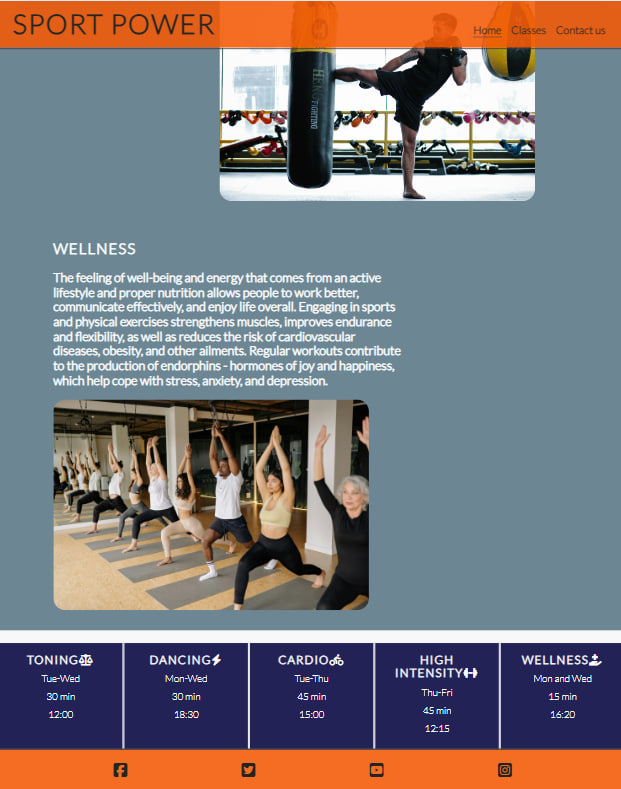
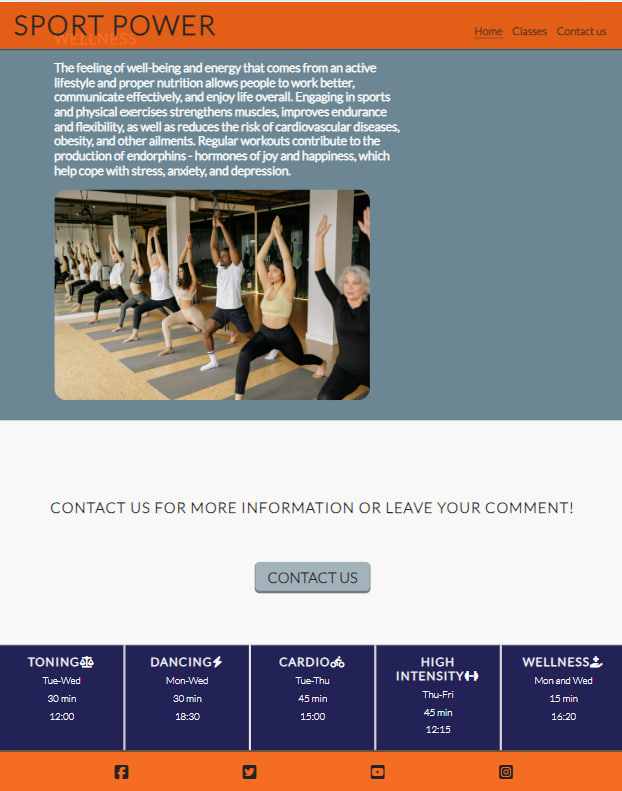
Add hover colors

diff --git a/response.html b/response.html
@@ -3,16 +3,12 @@
 <head>
     <meta charset="UTF-8">
     <meta name="viewport" content="width=device-width, initial-scale=1.0">
-    <!-- Meta tags for search engines -->
-    <meta name="description"
-    content="Sport power. Gym with additional activities for different purposes and tasks. Cork City Gate">
-    <meta name="keywords" content="gym, strength, workouts, health, sport, exercise">
     <!-- Title -->
     <title>Sport power</title>
      <!-- Stylesheet -->
      <link rel="stylesheet" href="assets/css/style.css">
 </head>
-<body>
+<body class="contact__page">
     <!-- Header -->
     <header>
         <a href="index.html">
@@ -28,57 +24,21 @@
             </ul>
         </nav>
     </header>
+    
+
     <!-- Main content -->
-    <main>
-         <div id="hero" aria-label="picture with a gym and visitors">
-            <div id="content">
-                <h1>Gym sport strength</h1>
-                <p>A new PREMIUM club in one of the most dynamic places in the capital - Cork. The fitness club offers visitors 
-                    accustomed to the business pace of life the most modern trends that have received recognition throughout the world.</p>
-            </div>
-         </div> 
-        <section id="membership-block">
-            <h2>What is included in the membership?</h2>
-            <div id="benefits">
-                <ul>
-                    <li>4-lane swimming pool</li>
-                    <li>gym, with equipment</li>
-                    <li>group classes</li>
-                    <li>jacuzzi</li>
-                </ul>
-                <ul>
-                    <li>water cooler</li>
-                    <li>towel</li>
-                    <li>safe for storing things</li>
-                    <li>sauna</li>
-                </ul>
-            </div>
+    <main class="main_contact_form">
+        <!-- Form section -->
+        <section class="contact_form">
+            <h1>Thank you</h1>
+            <p>We will contacts you in three days</p>
+
         </section>
-        <!-- Blocks with location -->
-     <section id="two_blocks">
-        <div id="first-rounded-block">
-            <div id="details">
-            <h2>Club Details</h2>
-            <br>
-            <p>2 Park Place, City Gate, Mahon, Cork, T12 DH0F</p>
-                <h3>Contact</h3>
-                <a href="mailto:revenkova444@gmail.com" class="club_details">revenkova444@gmail.com</a>
-                <a href="tel:+353877654334" class="club_details">+353877654334</a>
-            </div>
-        </div>
-        <div id="second-rounded-block">
-            <div id="opening_hours">
-                <h2>Opening Hours</h2>
-                <p>Monday to Friday - 6 am to 9:30 pm</p>
-                <p>Saturday and Sunday - 9 am to 5 pm</p>
-                <h3>Club Manager</h3>
-                <p>Mary</p>
-            </div>
-    </div>
-    </section>
     </main>
+
+
     <!-- Footer -->
-    <footer>
+    <footer  class="footer_fixed">
         <ul id="social-networks">
             <li>
                 <a href="https://www.facebook.com/" target="_blank" rel="noopener"
@@ -102,6 +62,7 @@
             </li>
         </ul>
     </footer>
+
      <!-- Font Awesome kit -->
      <script src="https://kit.fontawesome.com/7f7d7a6639.js" crossorigin="anonymous"></script>
 </body>

diff --git a/assets/css/style.css b/assets/css/style.css
@@ -50,7 +50,7 @@ a {
 }
 
 a:hover {
-    color: red;
+    color: white;
 }
 
 #menu {
@@ -126,9 +126,6 @@ main {
     padding: 2em;
     top: 2em;
     left: 2em;
-}
-
-#content {
     color: white; 
 }
 
@@ -202,6 +199,9 @@ main {
 #details a,p,h2,h3 {
     display: block;
     margin-bottom: 10px;
+}
+.club_details:hover{
+    color: red;
 }
 
 /* Meetup Times section */
